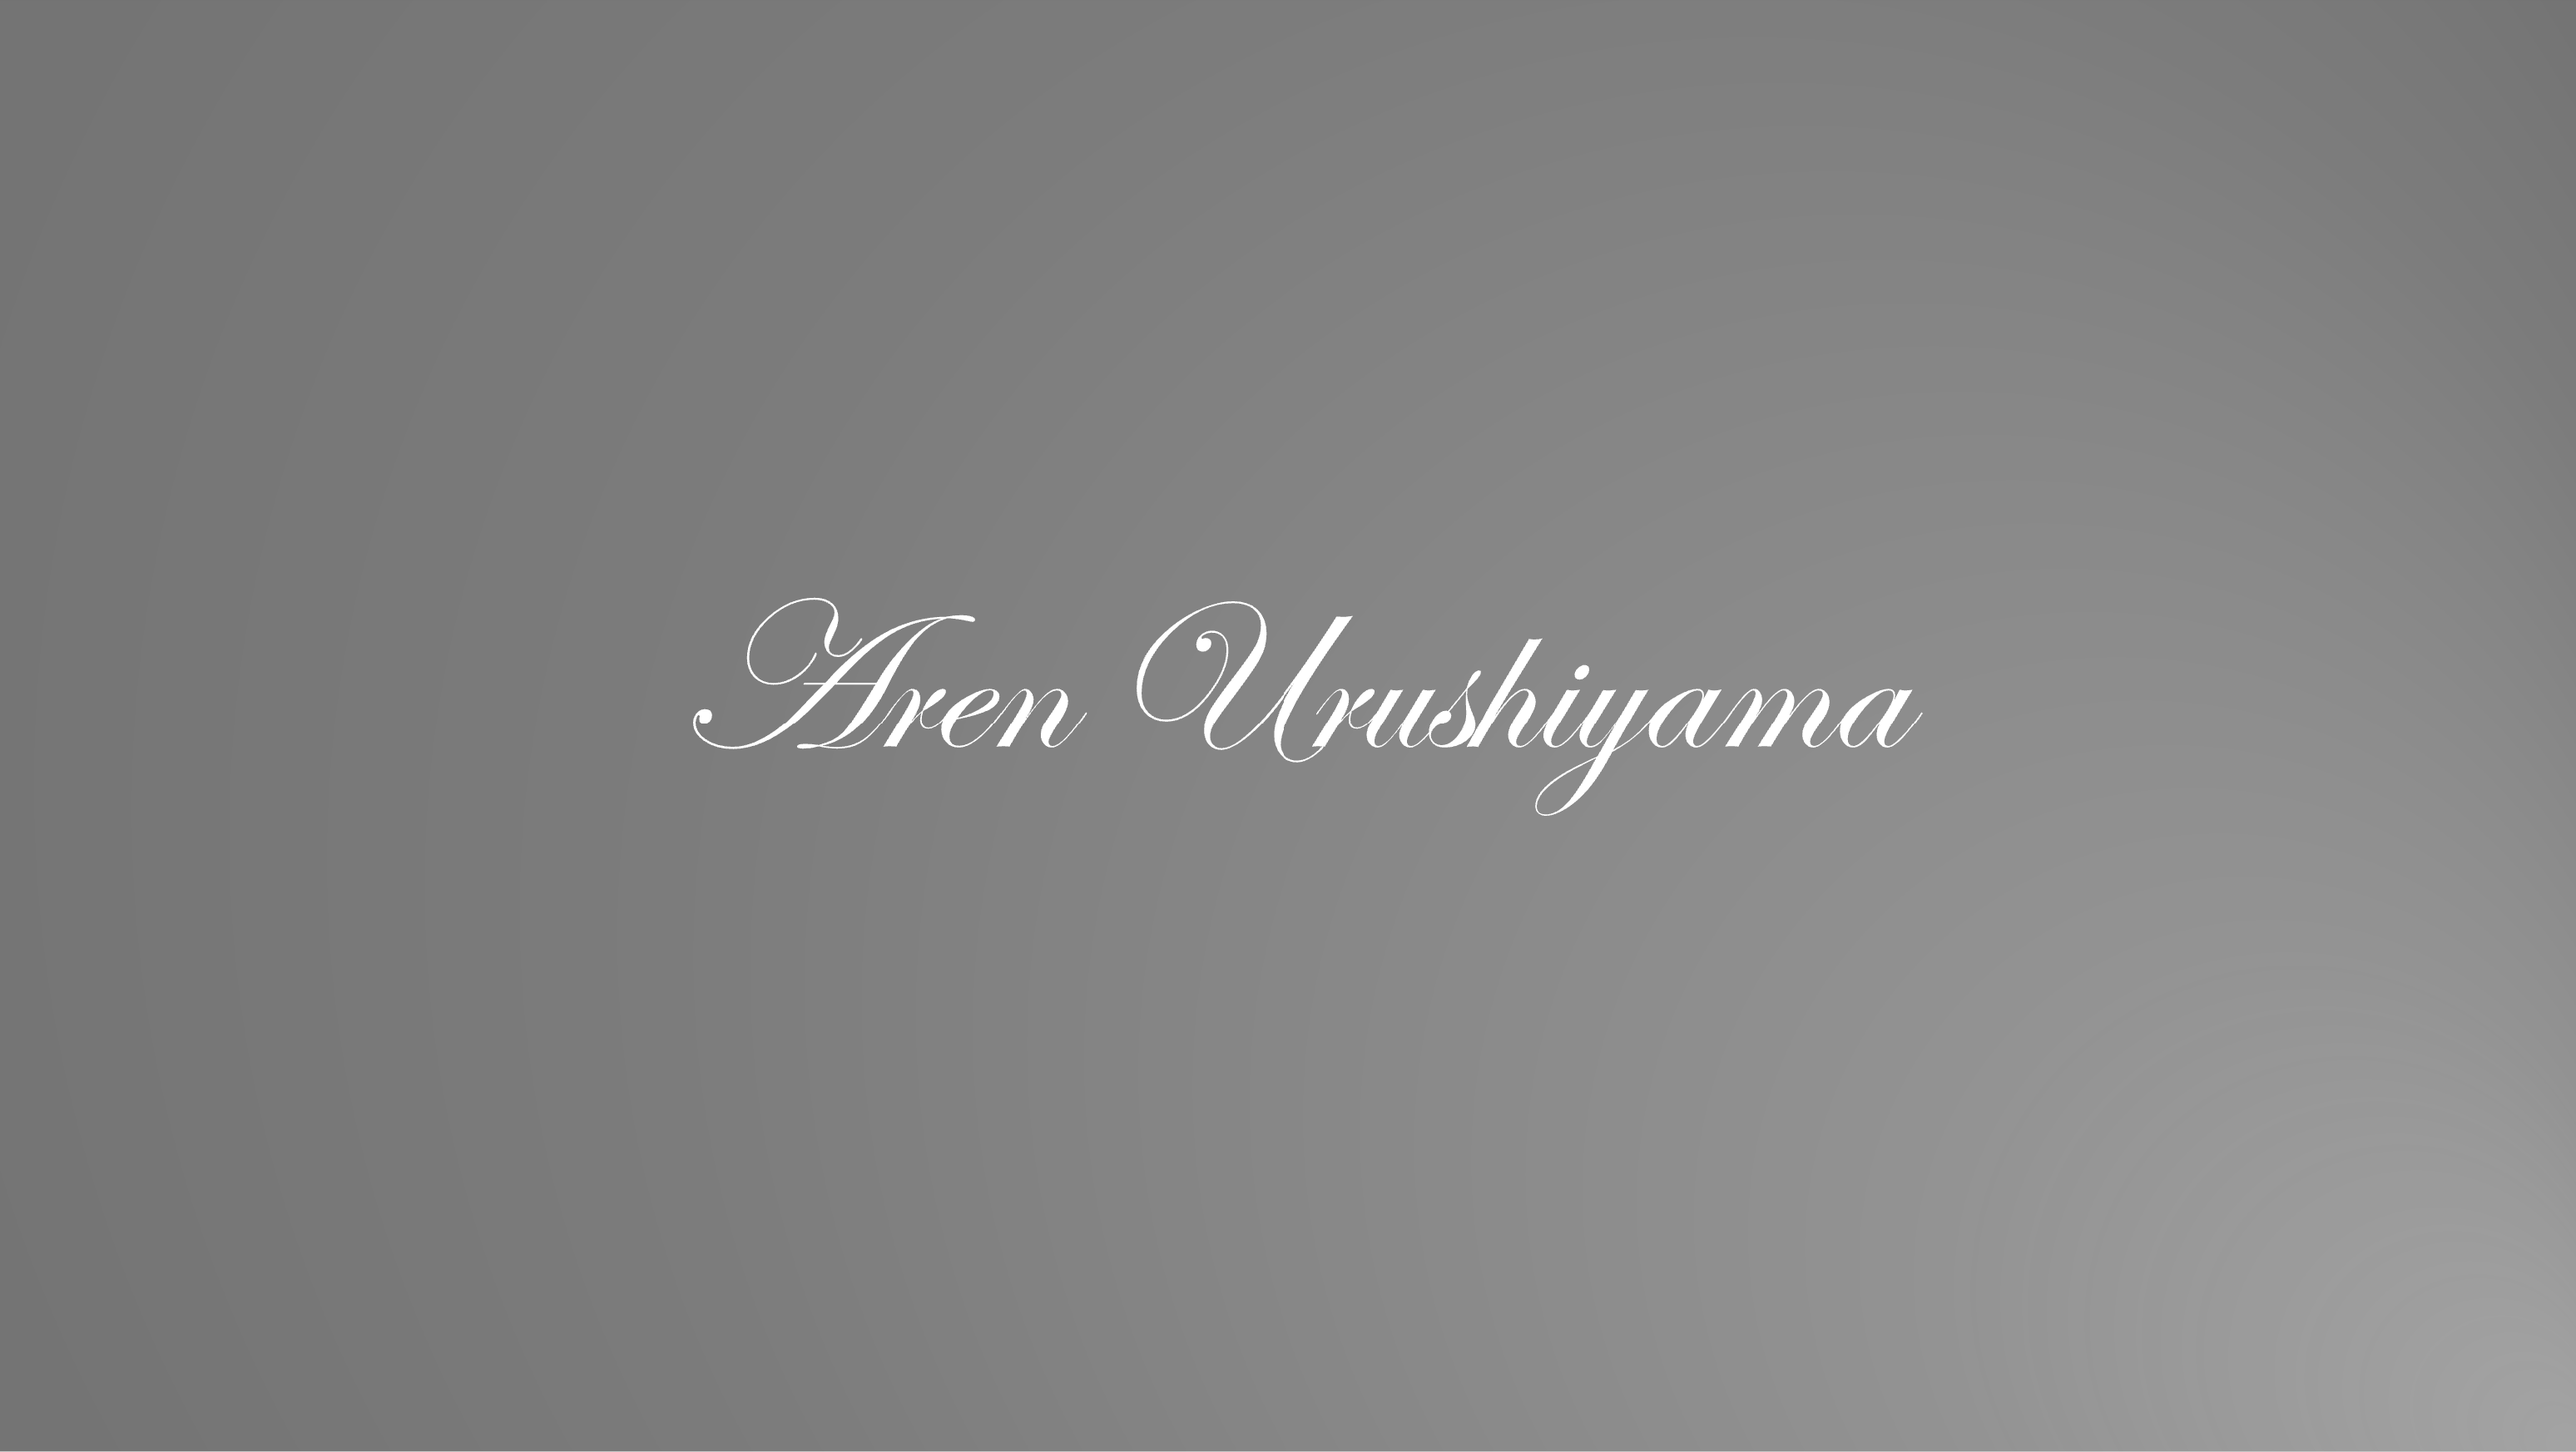
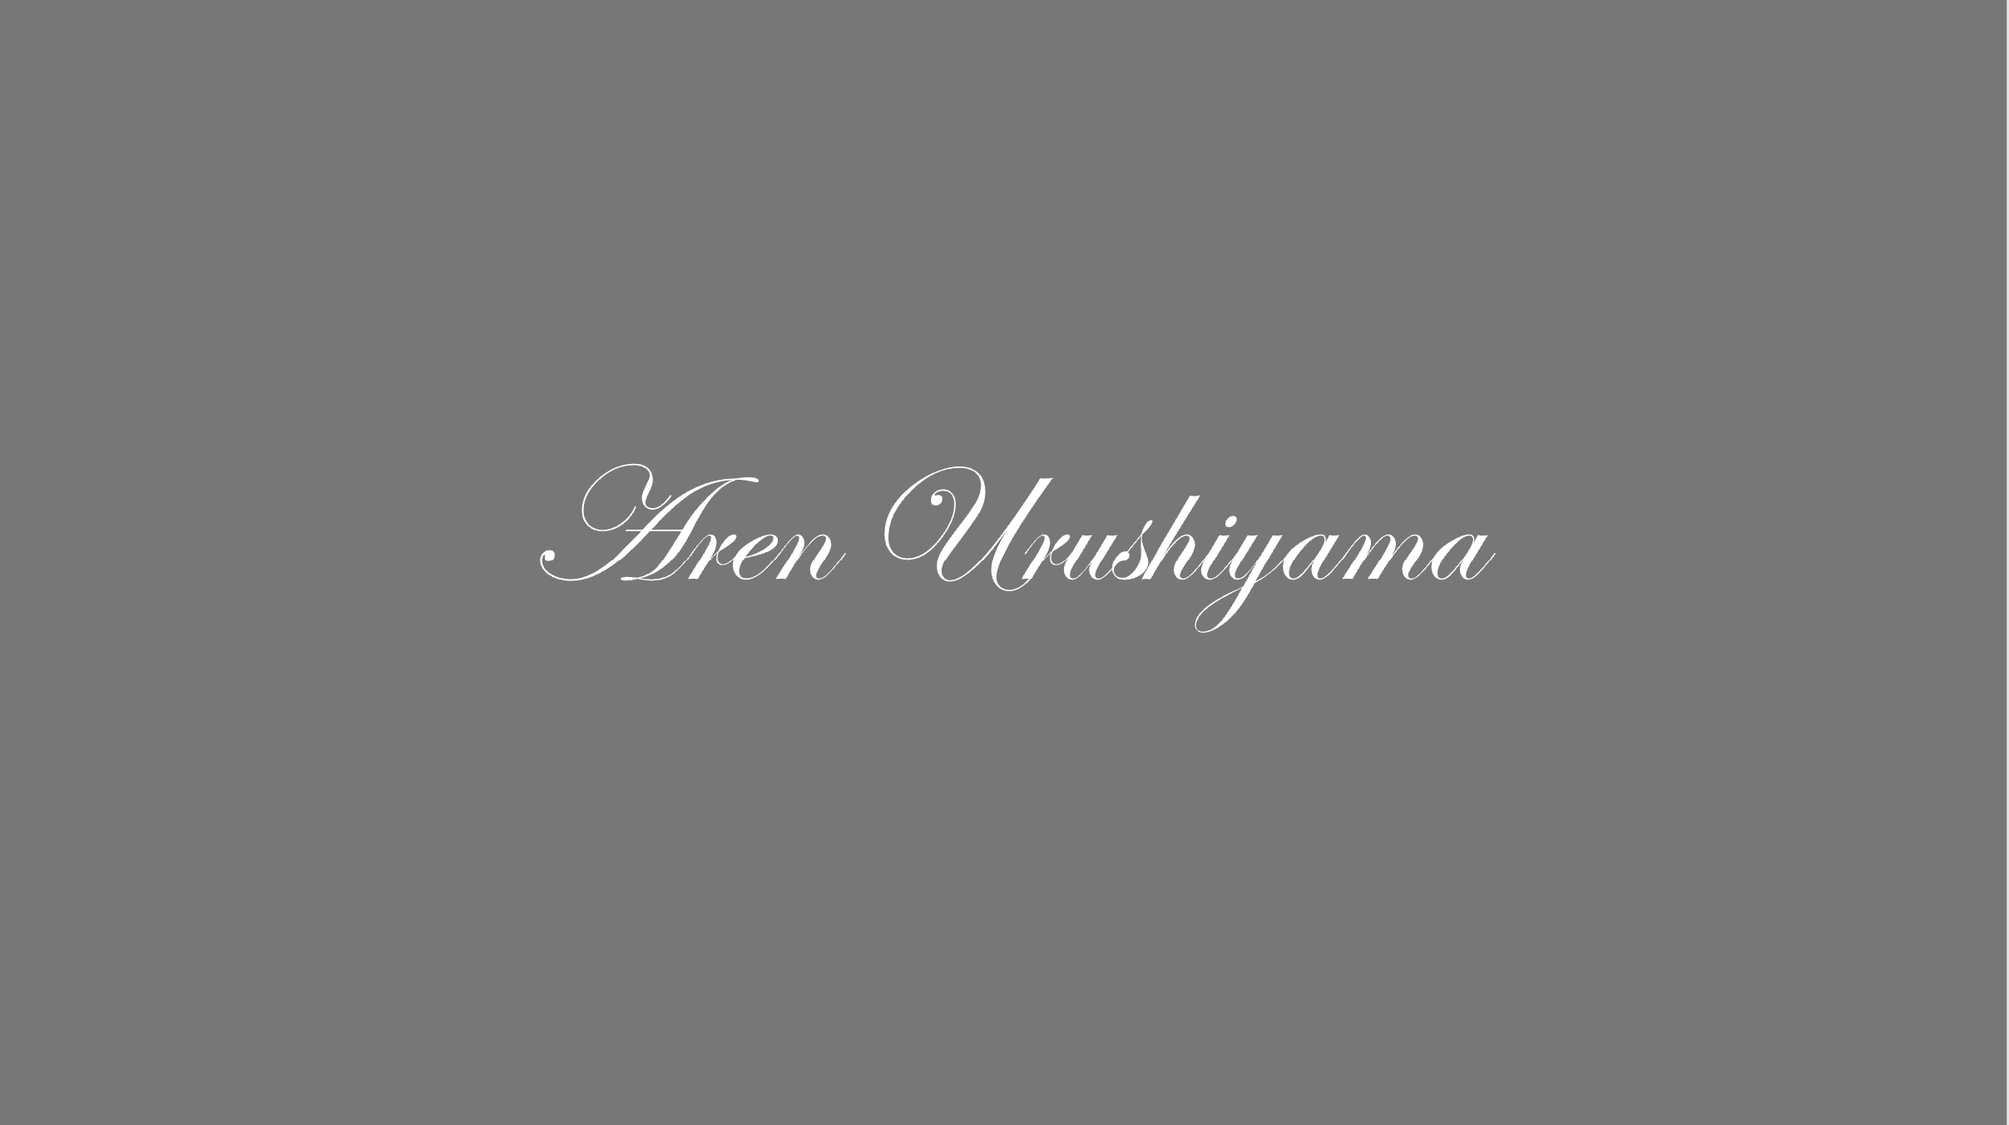
ローディング画像修正

Changed region(s): [[0.0, 0.0, 1.0, 1.0], [0.4348, 0.4346, 0.7453, 0.5588], [0.3106, 0.4656, 0.4037, 0.4967]]

diff --git a/style.css b/style.css
@@ -3,16 +3,12 @@
       width: 100%;
       height: 100%;
       z-index: 999;
-      background:#333;
-      text-align:center;
+      background:#777777;
       color:#fff;
     }
 
 #loading_logo {
     position: absolute;
-    top: 50%;
-    left: 50%;
-    transform: translate(-50%, -50%);
     }
 
 #loading_logo img {

diff --git a/js/loading.js b/js/loading.js
@@ -1,4 +1,4 @@
 $(window).on('load',function(){
-    $("#loading").delay(1500).fadeOut('slow');
-    $("#loading_logo").delay(1200).fadeOut('slow');
+    $("#loading").delay(2000).fadeOut('slow');
+    $("#loading_logo").delay(1500).fadeOut('slow');
   });
